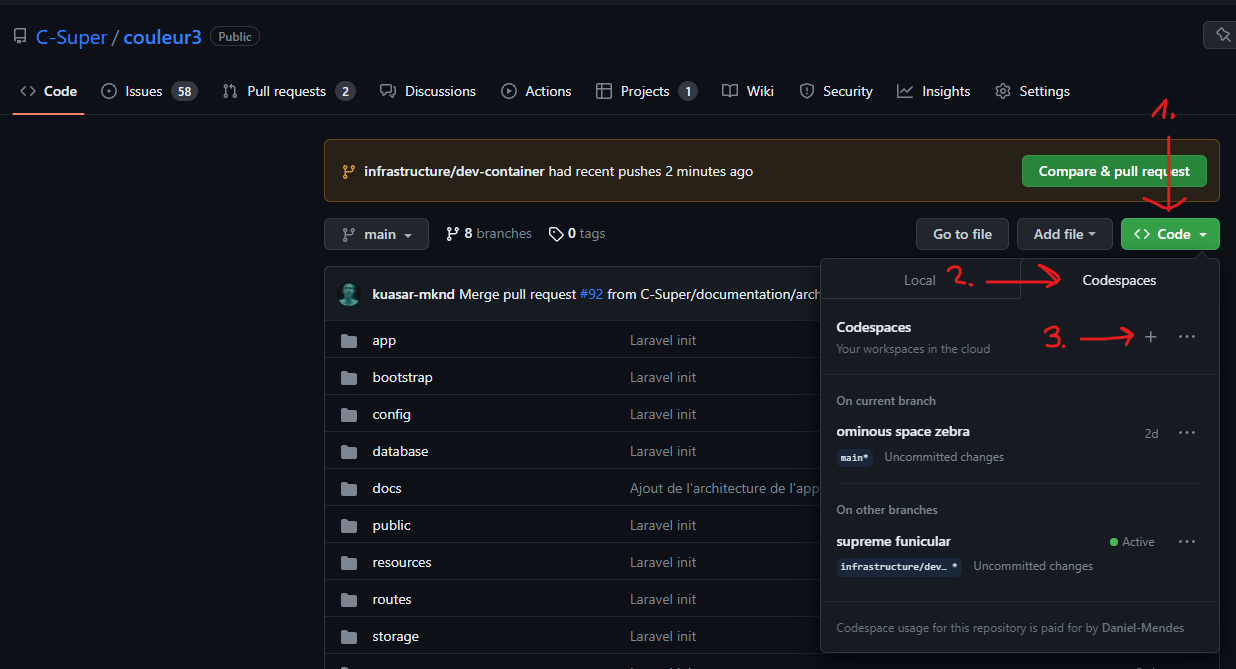
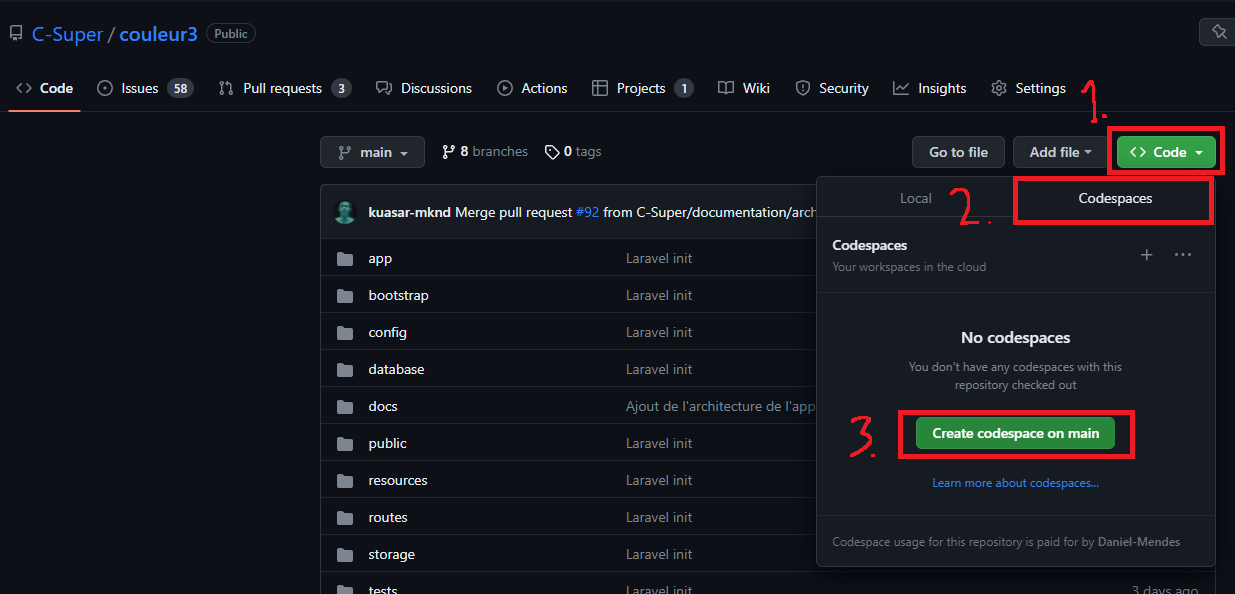
Improve screenshots

diff --git a/docs/environnement/development-environment.md b/docs/environnement/development-environment.md
@@ -9,7 +9,6 @@ flowchart TB
 
         sourceCode[Code source]
         
-
         subgraph devContainer[Conteneur Docker]
             mysql[(MySQL)]
             redis[(Redis)]
@@ -21,9 +20,9 @@ flowchart TB
             remoteSourceCode[Code source]
         end
 
-        vscode -->|"localhost:80 (laravel)
-            localhost:8025 (mailpit)
-            localhost:8080 (phpmyadmin)"| devContainer
+        vscode -->|"localhost:80 (Application)
+            localhost:8025 (Mailpit)
+            localhost:8080 (phpMyAdmin)"| devContainer
         sourceCode -.->|synchronisé| remoteSourceCode
     end
 ```
@@ -36,7 +35,7 @@ flowchart TB
 
 - Ouvrir le projet dans GitHub
 - Cliquer sur le bouton `Code` et sélectionner l'onglet `Codespaces`
-- Cliquer sur l'icône `+`
+- Cliquer sur le bouton `Create codespace on main`
 
 ![Créer un codespace](./screenshots/github-codespaces-create.png)
 
@@ -56,6 +55,8 @@ Vous devriez voir une fenêtre de sélection de l'environnement de développemen
 
 Quand le conteneur est prêt, vous devriez voir un icône (une petite antenne) dans la barre d'outils de VS Code.
 
+Cette vue liste tous les points d'entrée disponible.
+
 ![Dev Container prêt](./screenshots/dev-container-ready.png)
 
 Vous pouvez maintenant ouvrir l'application dans votre navigateur à l'adresse [http://localhost:80](http://localhost:80).
@@ -64,16 +65,14 @@ Vous pouvez maintenant ouvrir l'application dans votre navigateur à l'adresse [
 
 Voilàà ! Vous pouvez maintenant commencer à développer.
 
-### 5. Installer les extensions VS Code recommandées
-
-Les extensions recommandées sont visibles dans le menu `Extensions` de VS Code, dans l'onglet `CODESPACES`.
-
-### 6. (Attention) Avant de fermer VS Code
+### 5. (Attention) Avant de fermer VS Code
 
 Avant de fermer VS Code, il faut arrêter le conteneur.
 
 - En bas à gauche, cliquer sur l'icône `>< Codespaces` pour ouvrir le menu des codespaces
 - Cliquer sur l'option `Stop Ccurrent Codespace`, sinon le conteneur va continuer de tourner et le temps sera décompté de votre forfait (60 heures gratuit par mois).
+
+![Close Codespaces](./screenshots/github-codespaces-close.png)
 
 ## Configuration sur Windows
 
